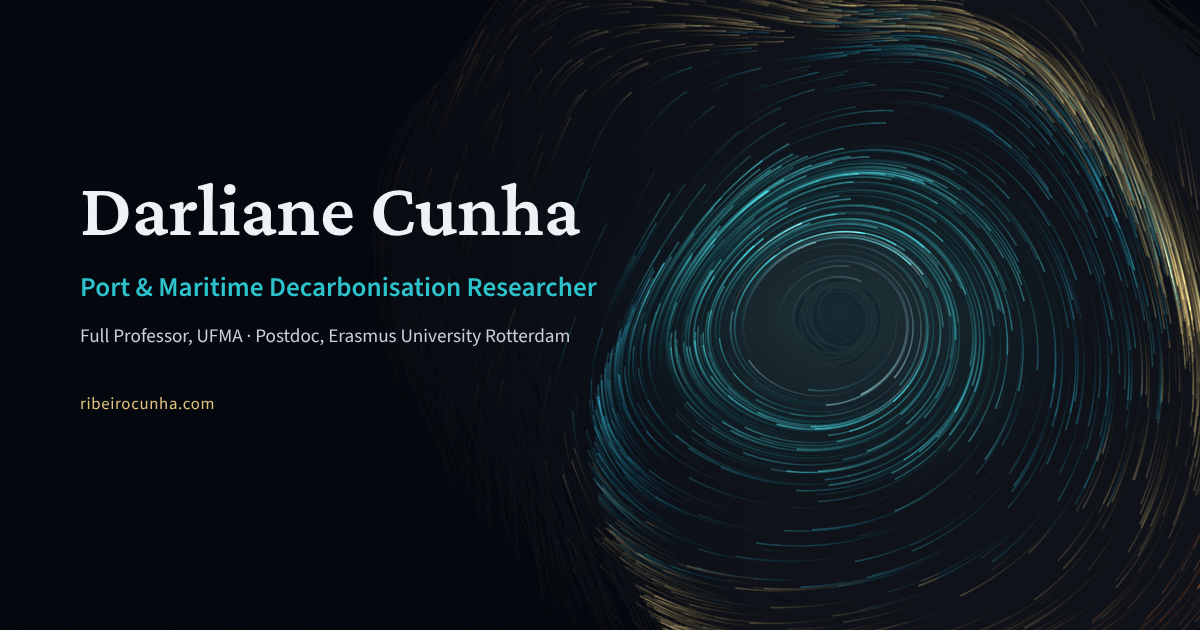
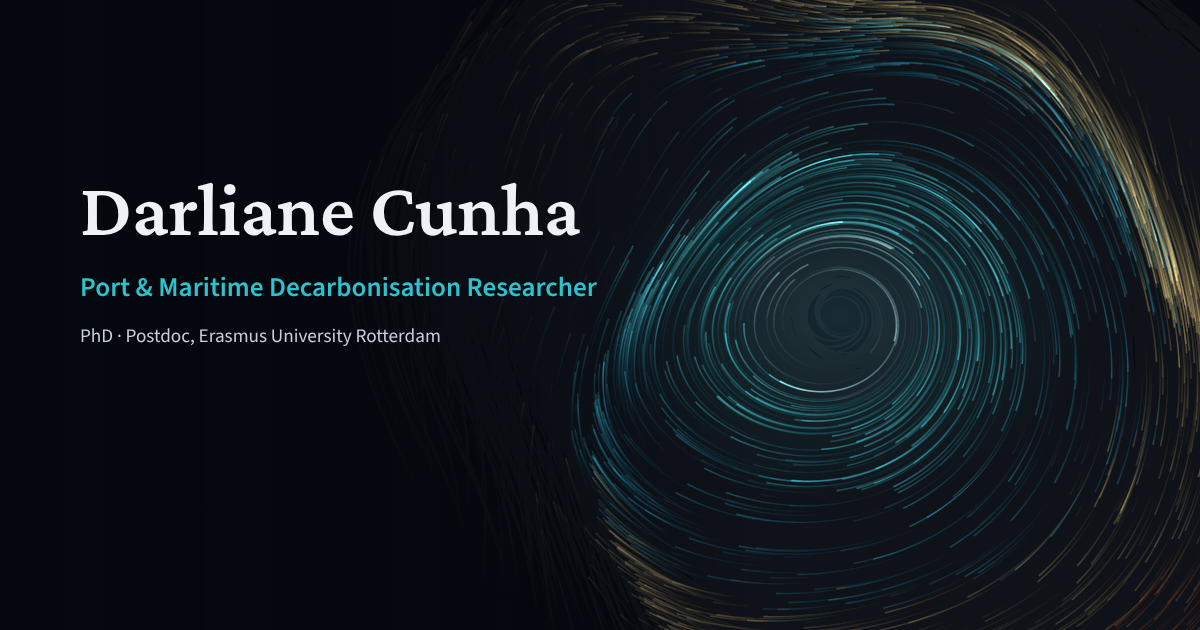
Remove UFMA and Full Professor from the site and preview image
- Hero pill: "PhD · Postdoc, Erasmus University Rotterdam".
- About no longer names UFMA or Full Professor; says more than 15 years
  of research on port sustainability, ESG reporting and SDG indicators.
- Meta description: "PhD, 18 peer-reviewed articles."
- JSON-LD: worksFor removed.
- Radar ODS card: "Portuguese interface." without "Developed at UFMA".
- og-image.png: no Full Professor, UFMA or site address.

Claude-Session: https://claude.ai/code/session_01K5CqRNt5tanofFLs6ymrjT

diff --git a/index.html b/index.html
@@ -3,7 +3,7 @@
   <meta charset="UTF-8">
   <meta name="viewport" content="width=device-width, initial-scale=1.0">
   <title>Darliane Cunha | Port &amp; Maritime Decarbonisation Researcher</title>
-  <meta name="description" content="Port and maritime decarbonisation researcher: emissions inventories, shore power, EU ETS and open port data. Full Professor, UFMA. 18 peer-reviewed articles.">
+  <meta name="description" content="Port and maritime decarbonisation researcher: emissions inventories, shore power, EU ETS and open port data. PhD, 18 peer-reviewed articles.">
   <link rel="icon" href="/favicon-96.png" type="image/png" sizes="96x96">
   <link rel="icon" href="/favicon.ico" sizes="48x48">
   <link rel="apple-touch-icon" href="/apple-touch-icon.png">
@@ -35,7 +35,6 @@
     "jobTitle": "Port & Maritime Decarbonisation Researcher",
     "description": "Researcher in port and maritime decarbonisation, ESG text mining and SDG indicators.",
     "knowsAbout": ["Maritime decarbonisation", "Port emissions inventories", "EU ETS maritime", "ESG reporting", "Text mining", "Sustainable Development Goals", "Python", "Data analytics"],
-    "worksFor": { "@type": "CollegeOrUniversity", "name": "Federal University of Maranhão (UFMA)" },
     "award": [
       "1st Place, Academic Production, Porto do Itaqui Prize (Inova Itaqui), 2026",
       "Best Paper, National Congress Integra Portos (CNIT), 2026",
@@ -333,7 +332,7 @@
         <h1>Darliane Cunha</h1>
         <p class="hero-sub">
           Port &amp; Maritime Decarbonisation Researcher · Emissions inventories, ESG analytics and SDG indicators for ports
-          <span class="pill">PhD · Full Professor, UFMA · Postdoc, Erasmus University Rotterdam</span>
+          <span class="pill">PhD · Postdoc, Erasmus University Rotterdam</span>
           <span class="pill">Google Scholar · h-11 · 354 citations</span>
         </p>
         <div class="btn-row">
@@ -357,7 +356,7 @@
         </div>
         <div class="about-text">
           <h2 class="section-title" style="margin-bottom:24px;">About Me</h2>
-          <p>I research how ports and shipping can decarbonise, building emissions inventories, open datasets and analytics that show where action pays off first. At the Port of Itaqui, for example, my work estimates that shore power could cut at-berth CO₂ by up to 84%, with three berths producing about 63% of it. I am a Full Professor at the Federal University of Maranhão (UFMA), Brazil, where I have led research on port sustainability, ESG reporting and SDG indicators since 2010, and I completed a postdoctoral fellowship at Erasmus University Rotterdam in 2024–2025.</p>
+          <p>I research how ports and shipping can decarbonise, building emissions inventories, open datasets and analytics that show where action pays off first. At the Port of Itaqui, for example, my work estimates that shore power could cut at-berth CO₂ by up to 84%, with three berths producing about 63% of it. I have led research on port sustainability, ESG reporting and SDG indicators for more than 15 years, and I completed a postdoctoral fellowship at Erasmus University Rotterdam in 2024–2025.</p>
           <p>My work spans academic research, applied tool development, and strategic consulting, combining rigorous quantitative methods with practical implementation across port infrastructure, sustainability reporting, and digital transformation.</p>
           <p style="margin-bottom:0;">I am currently seeking opportunities in research institutions, international organisations, and innovative companies where I can apply my expertise in AI, sustainability analytics, and data-driven decision-making to create lasting environmental and organisational impact.</p>
           <div class="about-meta">📍 Available for remote and international positions</div>
@@ -960,7 +959,7 @@
             </div>
             <h3>Radar ODS: Municípios Sustentáveis</h3>
             <p class="desc">An interactive simulator of the Municipal Sustainability Index (ISM) for the 27 coastal municipalities of Maranhão's Equatorial Margin, Brazil, across SDGs 7, 11, 13, 14 and 17.</p>
-            <p class="desc">It converts official open data (IBGE, ANEEL, CEMADEN, MapBiomas and others) into maturity scores from 1 to 5 and shows how indicator improvements change the index, including which funding calls each level unlocks. Developed at UFMA, Portuguese interface.</p>
+            <p class="desc">It converts official open data (IBGE, ANEEL, CEMADEN, MapBiomas and others) into maturity scores from 1 to 5 and shows how indicator improvements change the index, including which funding calls each level unlocks. Portuguese interface.</p>
             <div class="chips"><span class="chip">SDGs</span><span class="chip">Municipal sustainability</span><span class="chip">ISM methodology</span><span class="chip">Open data</span><span class="chip">AI</span></div>
           </div>
           <a class="proj-cta" href="https://radarods.vercel.app/" target="_blank" rel="noopener" style="border:1px solid color-mix(in oklch, oklch(0.82 0.10 85) 25%, transparent); color:oklch(0.82 0.10 85); background:color-mix(in oklch, oklch(0.82 0.10 85) 8%, transparent);" onmouseover="this.style.background='oklch(0.82 0.10 85)'; this.style.color='oklch(0.10 0.03 265)';" onmouseout="this.style.background='color-mix(in oklch, oklch(0.82 0.10 85) 8%, transparent)'; this.style.color='oklch(0.82 0.10 85)';">↗ Try the Demo</a>
@@ -1247,7 +1246,7 @@
         tags: ["Indicators", "SDGs", "Data management"] },
       { emoji: "🎯", title: "Radar ODS: Municípios Sustentáveis", trl: "TRL 6", category: "Sustainability & SDGs", accent: "oklch(0.82 0.10 85)", ctaLabel: "Try the Demo", url: "https://radarods.vercel.app/",
         description: "An interactive simulator of the Municipal Sustainability Index (ISM) for the 27 coastal municipalities of Maranhão's Equatorial Margin, Brazil, across SDGs 7, 11, 13, 14 and 17.",
-        longDescription: "It converts official open data (IBGE, ANEEL, CEMADEN, MapBiomas and others) into maturity scores from 1 to 5 and shows how indicator improvements change the index, including which funding calls each level unlocks. Developed at UFMA, Portuguese interface.",
+        longDescription: "It converts official open data (IBGE, ANEEL, CEMADEN, MapBiomas and others) into maturity scores from 1 to 5 and shows how indicator improvements change the index, including which funding calls each level unlocks. Portuguese interface.",
         tags: ["SDGs", "Municipal sustainability", "ISM methodology", "Open data", "AI"] },
       { emoji: "🔍", title: "TextMapReady Words: Text Mining for VOSviewer", trl: "TRL 6", category: "Research & Text Mining", accent: "oklch(0.72 0.14 195)", ctaLabel: "Try the Tool", url: "https://text-umber-delta.vercel.app/",
         description: "Turns a set of PDFs into a word co-occurrence network for VOSviewer Online, detecting the most frequent terms automatically. Citable software (DOI 10.5281/zenodo.20708533).",
